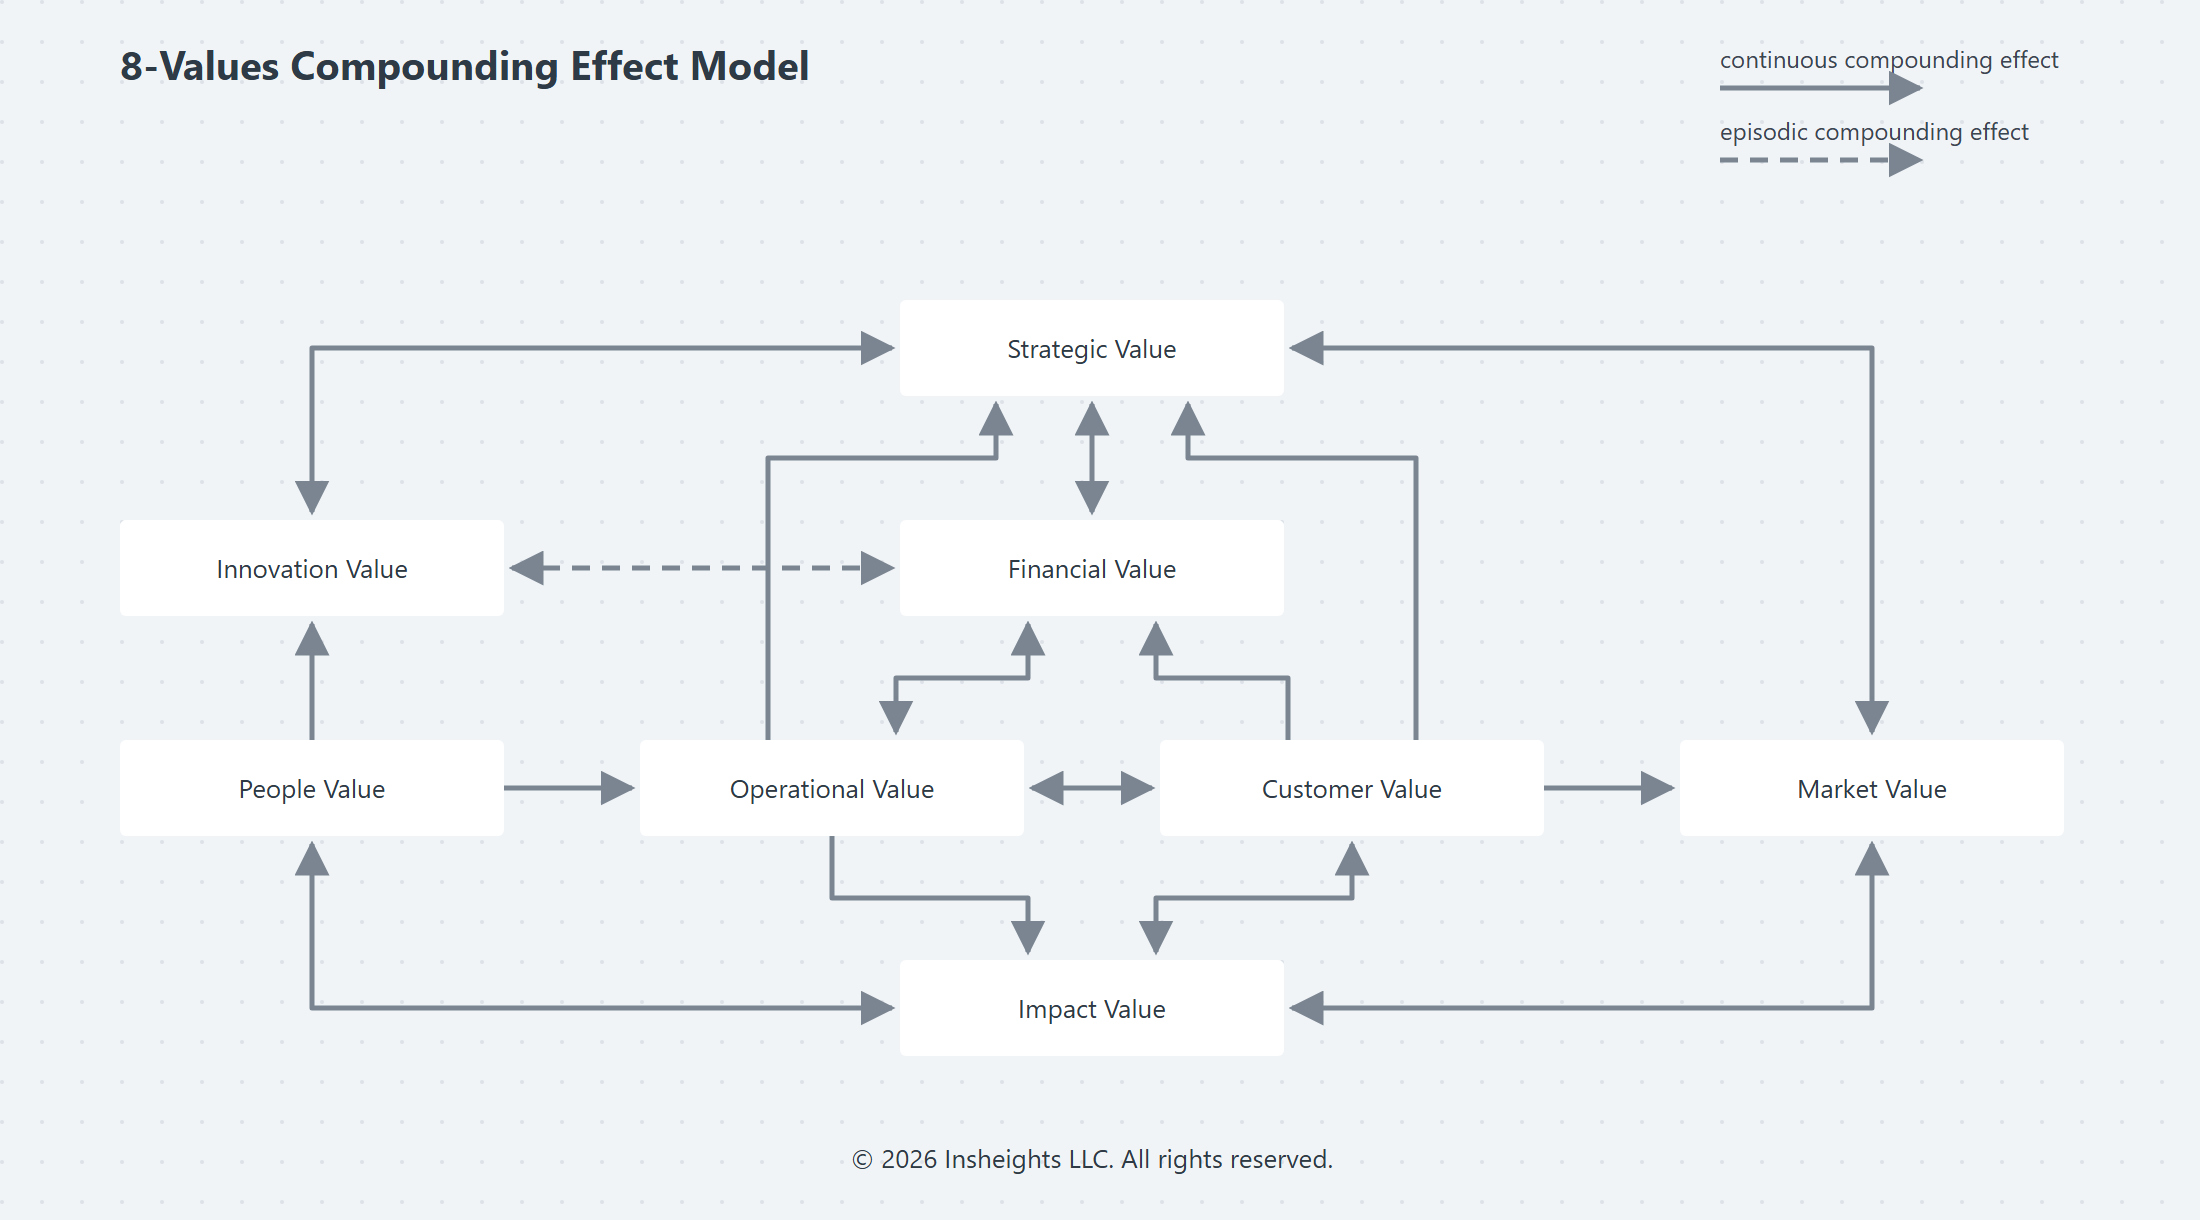
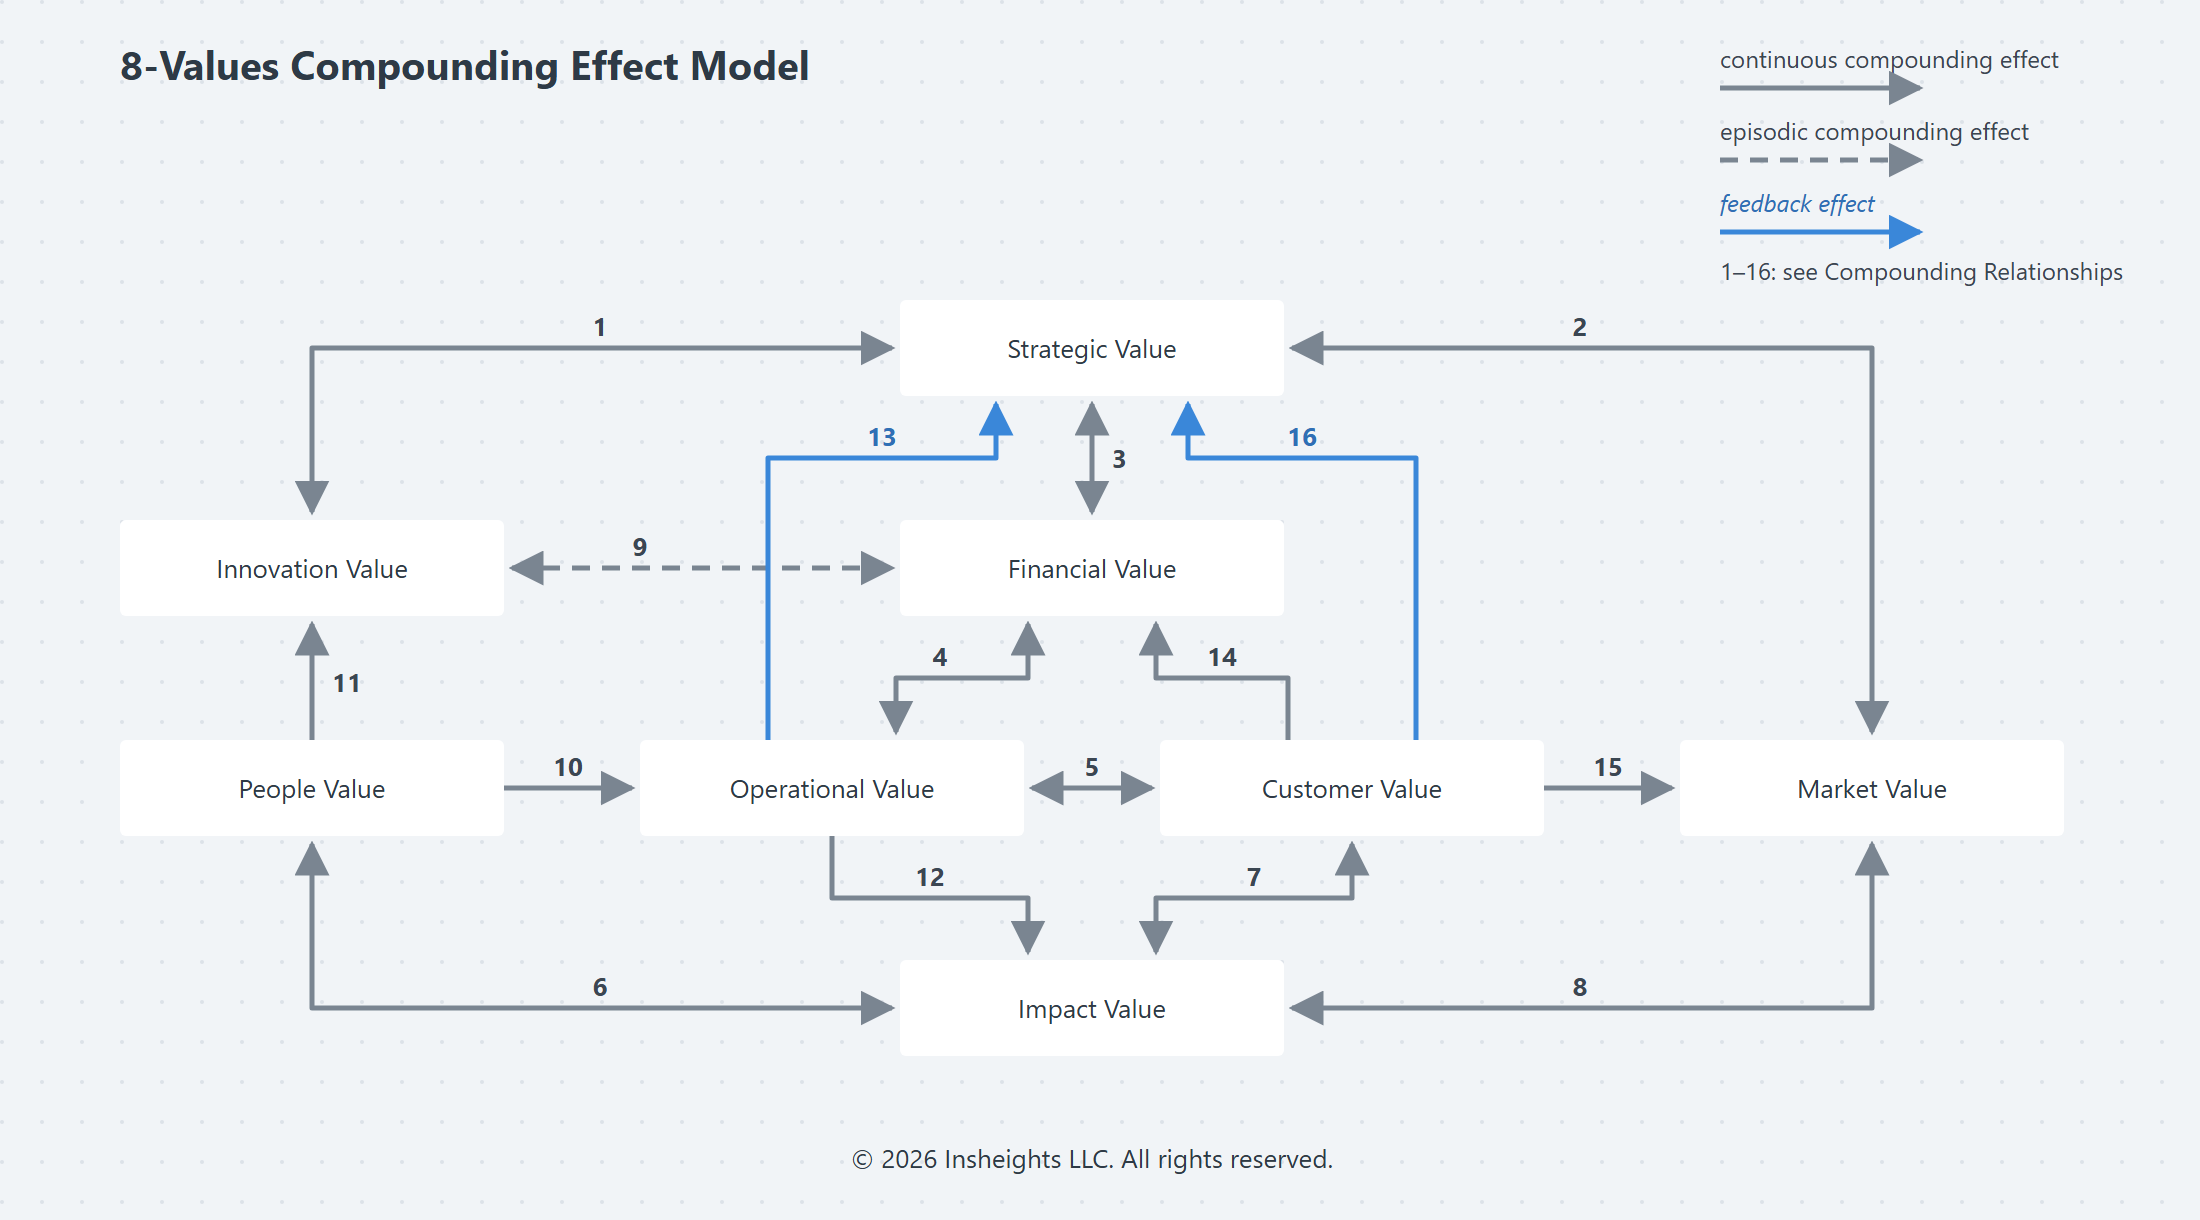
Issue #11: label the Measurement Architecture and 8-Values arrows
- Measurement Architecture: work-flow verbs (measured by, drives,
  feed, drive), a legend, and the fork back into the IIVCS from
  feedback.md: People & Operational Value -> PTS, the other six
  Values -> OSM Governance & Measurement.
- 8-Values: each arrow numbered 1-16, keyed to a new # column in the
  8-values.md Compounding Relationships tables; the two one-way
  relationships typed Feedback drawn blue; legend updated.
- Glossary: new verbs and feedback names, and the 8-Values numbering
  convention.

diff --git a/8-values.md b/8-values.md
@@ -225,39 +225,41 @@ The 8 Values do not operate as a linear chain — they form a network in which m
 **Arrow encoding:**
 - **Solid arrows** — direct, continuous relationship: active, ongoing, and traceable
 - **Dashed arrows** — indirect, episodic relationship: real but mediated or periodic rather than immediate
+- **Blue arrows** — the one-way relationships typed *Feedback* (Operational → Strategic, Customer → Strategic)
+- **Numbers** — each arrow's number is its row in the # column of the tables below
 
 ### Bidirectional Relationships — Solid
 
-| Relationship | Direction A | Direction B |
-|---|---|---|
-| **Strategic ↔ Innovation** | Strategic direction sets where innovation investment is focused | Disruptive innovation reshapes strategic direction |
-| **Strategic ↔ Market** | Strategic choices shape market positioning and competitive strategy | Market signals inform strategic reassessment |
-| **Strategic ↔ Financial** | Strategic direction determines capital allocation and resource deployment | Financial performance informs strategic capacity and priority |
-| **Financial ↔ Operational** | Financial returns fund operational investment and capability improvement | Operational efficiency and throughput generate financial returns |
-| **Operational ↔ Customer** | Operational capability enables consistent customer value delivery | Customer signal and demand drive operational improvement and redesign |
-| **People ↔ Impact** | People capability and culture generate societal and ecosystem impact | Purpose and impact attract, engage, and retain people |
-| **Customer ↔ Impact** | Delivering genuine customer value creates direct societal benefit | Impact purpose deepens customer loyalty and advocacy |
-| **Market ↔ Impact** | Market reach and reputation amplify societal and ecosystem impact | Strong impact builds market reputation and trust |
+| # | Relationship | Direction A | Direction B |
+|---|---|---|---|
+| 1 | **Strategic ↔ Innovation** | Strategic direction sets where innovation investment is focused | Disruptive innovation reshapes strategic direction |
+| 2 | **Strategic ↔ Market** | Strategic choices shape market positioning and competitive strategy | Market signals inform strategic reassessment |
+| 3 | **Strategic ↔ Financial** | Strategic direction determines capital allocation and resource deployment | Financial performance informs strategic capacity and priority |
+| 4 | **Financial ↔ Operational** | Financial returns fund operational investment and capability improvement | Operational efficiency and throughput generate financial returns |
+| 5 | **Operational ↔ Customer** | Operational capability enables consistent customer value delivery | Customer signal and demand drive operational improvement and redesign |
+| 6 | **People ↔ Impact** | People capability and culture generate societal and ecosystem impact | Purpose and impact attract, engage, and retain people |
+| 7 | **Customer ↔ Impact** | Delivering genuine customer value creates direct societal benefit | Impact purpose deepens customer loyalty and advocacy |
+| 8 | **Market ↔ Impact** | Market reach and reputation amplify societal and ecosystem impact | Strong impact builds market reputation and trust |
 
 ### Bidirectional Relationship — Dashed
 
-| Relationship | Direction A | Direction B |
-|---|---|---|
-| **Innovation ↔ Financial** | Innovation generates financial return through new products, IP, and market expansion — over time and through the operational chain | Financial strength funds R&D, experimentation, and innovation infrastructure |
+| # | Relationship | Direction A | Direction B |
+|---|---|---|---|
+| 9 | **Innovation ↔ Financial** | Innovation generates financial return through new products, IP, and market expansion — over time and through the operational chain | Financial strength funds R&D, experimentation, and innovation infrastructure |
 
 The Innovation ↔ Financial relationship is indirect and episodic: financial return from innovation routes through operations and customer delivery rather than immediately, and financial investment in innovation produces returns on a cycle rather than continuously.
 
 ### One-Way Relationships
 
-| Relationship | Type | Mechanism |
-|---|---|---|
-| **People → Operational** | Foundational | People capability is the prerequisite for operational performance |
-| **People → Innovation** | Foundational | People capability and engagement drive innovation capacity |
-| **Operational → Impact** | Generative | How the organisation operates directly creates or undermines societal and ecosystem impact |
-| **Operational → Strategic** | Feedback | Operational capability and capacity inform strategic feasibility — what the organisation can actually execute |
-| **Customer → Financial** | Generative | Customer value delivery generates revenue, margin, and financial sustainability |
-| **Customer → Market** | Generative | Consistent customer outcomes build market reputation and position |
-| **Customer → Strategic** | Feedback | Customer outcomes are direct evidence for whether strategic hypotheses are being validated |
+| # | Relationship | Type | Mechanism |
+|---|---|---|---|
+| 10 | **People → Operational** | Foundational | People capability is the prerequisite for operational performance |
+| 11 | **People → Innovation** | Foundational | People capability and engagement drive innovation capacity |
+| 12 | **Operational → Impact** | Generative | How the organisation operates directly creates or undermines societal and ecosystem impact |
+| 13 | **Operational → Strategic** | Feedback | Operational capability and capacity inform strategic feasibility — what the organisation can actually execute |
+| 14 | **Customer → Financial** | Generative | Customer value delivery generates revenue, margin, and financial sustainability |
+| 15 | **Customer → Market** | Generative | Consistent customer outcomes build market reputation and position |
+| 16 | **Customer → Strategic** | Feedback | Customer outcomes are direct evidence for whether strategic hypotheses are being validated |
 
 ### Convergence Nodes
 

diff --git a/glossary.md b/glossary.md
@@ -77,6 +77,7 @@ Every arrow in the IIVCS diagrams carries a label from this vocabulary, and a wo
 - **Feedback flow** (blue arrow, italic label): the name of what flows back. OSM and CVDM number their feedback loops 1–5 as a sequence.
 - **System hand-offs** (IIVCS diagram): the noun handed between frameworks — *value priorities* and *product teams* down, *value-stream outcomes*, *strategic signals* and *customer outcome* back up.
 - Words inside a box or band that state a relationship use the same vocabulary (listed under *Relationship words* below).
+- **8-Values diagram:** most of its relationships run both ways, so each arrow carries a number (1–16) keyed to the *Compounding Relationships* tables in [8 Values](8-values.md), where both directions are written out. Blue marks the two one-way relationships typed *Feedback*.
 
 ### Work-flow verbs
 
@@ -85,11 +86,13 @@ Every arrow in the IIVCS diagrams carries a label from this vocabulary, and a wo
 | **constrains** | Sets limits the target must stay within | OSM: Enterprise Risk Mgmt → Strategic Value Creation (risk appetite) |
 | **decides** | Makes the choice | OSM: Leadership Direction → Strategic Value Creation |
 | **delivers** | Produces and hands over the value that was promised | CVDM: Value Stream → Value Proposition; Product/Service → Value |
+| **drives** | Causes the target to move; here, 3E performance produces the AER response, and AER behaviour produces the 8 Values | Measurement Architecture: 3E → Customer AER, Organization AER; Customer AER, Organization AER → 8 Values (*drive*) |
 | **directs** | Sets the direction the target moves toward | OSM: Vision → Strategic Value Creation |
 | **empower** | Equips and authorizes people to own and act | PTS: POM Enablers → product team |
 | **enables** | Supplies the ability the target needs to function | CVDM: Capability → Value Stage. Also the PTS → CVDM relation in [Positioning](positioning.md) |
 | **experienced through** | The product or service by which the customer meets the target | CVDM: Value Stage → Product/Service |
 | **experiences** | Encounters directly | CVDM: Customer/User → Value Proposition |
+| **feed** | Supply the behavioural signal the target measures | Measurement Architecture: Customer Journey Steps → Customer AER; Product Team & Product Operating Model → Organization AER |
 | **flags risk** | Raises a risk signal for the target to act on | OSM: Enterprise Risk Mgmt → Governance & Measurement; → Execution & Deployment |
 | **fulfills** | Meets a promise | CVDM: Value Stage → Value |
 | **funds** | Commits budget and capacity | OSM: Governance & Measurement → Execution & Deployment. PTS: Objectives by value stream → product team |
@@ -97,6 +100,7 @@ Every arrow in the IIVCS diagrams carries a label from this vocabulary, and a wo
 | **governs conduct** | Sets how the target must behave | OSM: Values → Governance & Measurement (outcomes are read against Values) |
 | **guides** | Supplies the principles the target follows | OSM: Values → Strategic Value Creation |
 | **informs** | Supplies evidence the target uses | OSM: Internal Context, External Context → Strategic Value Creation |
+| **measured by** | Has its delivery performance measured by the target | Measurement Architecture: Architecture Elements → 3E |
 | **operationalizes** | Makes repeatable in practice | CVDM: Process → Capability |
 | **participates in** | Takes part in | CVDM: Stakeholder → Value Stage |
 | **produces** | Brings about as a result | PTS: product team → Business / Customer Outcomes |
@@ -125,6 +129,8 @@ Every arrow in the IIVCS diagrams carries a label from this vocabulary, and a wo
 | IIVCS | — | **value-stream outcomes** | Evidence that value-stream outcomes are being produced (PTS → OSM) |
 | IIVCS | — | **strategic signals** | CVDM loop 5, consolidated by the product team, for OSM's strategic reassessment (PTS → OSM) |
 | IIVCS | — | **customer outcome** | Realized customer outcomes (CVDM → PTS) |
+| Measurement Architecture | — | **People & Operational Value** | Whether the operating model needs adjustment (8 Values → PTS) |
+| Measurement Architecture | — | **the other six Values** | Strategic, Financial, Market, Innovation, Customer and Impact Value, for Governance & Measurement and strategic reassessment (8 Values → OSM) |
 
 ### Relationship words in boxes and bands
 
